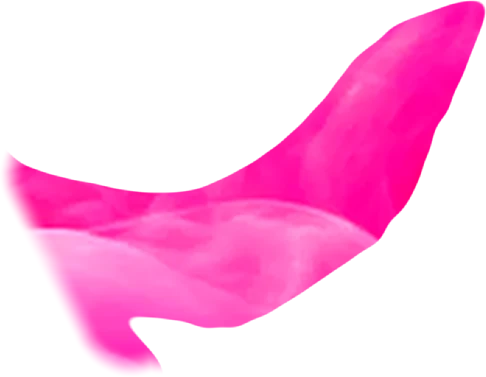
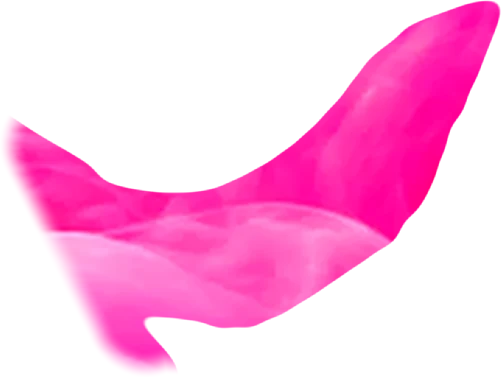
feat(dog): glass bubble helmet, volume and cleaner outline
- Glass overlay (vector): the dog's head inside the bubble as a darker smoke
  tone (face, drop ears, nose, eyes), sheen, thin bright rim and curved
  speculars.
- Per-part volume layer (soft inner shade + rim light, half-res WebP).
- Both are faded by --dog-detail, so the full-screen cover at the start of B
  stays plain smoke.
- The tank is a clean capsule, the back line is one smooth slope, the
  helmet-to-tank fillet is smooth, and the far hind leg is redrawn as a clean
  leg and paw.

Claude-Session: https://claude.ai/code/session_01AsJodUJ76uuwtQo2Mwdagu

diff --git a/docs/journey/tools/dog_silhouette.py b/docs/journey/tools/dog_silhouette.py
@@ -33,6 +33,14 @@ EDGE = 2.0       # width (box px) of the anti-aliased silhouette edge
 SDF_SIGMA = 3.2  # source px: smoothing of the signed distance (removes segmentation jaggies)
 FAR_SHADE = 0.8  # far legs a touch darker for depth
 WEBP_Q = 88
+SHADE_Q = 80
+SHADE_SCALE = 0.5
+# volume (a separate per-part layer, faded by --dog-detail): light from the upper left
+LIGHT = (-0.6, -0.8)       # direction the light comes FROM (screen axes)
+SHADE_W = 70               # box px: inner shade width
+SHADE_MAX = 0.34           # inner shade opacity at the edge, on the side away from the light
+RIM_W = 7                  # box px: rim light width
+RIM_MAX = 0.5              # rim light opacity on the side facing the light
 BUDGET = 300_000
 
 # ---------------------------------------------------------------------------------------------------------------
@@ -45,14 +53,44 @@ GC_OUTER = [(240, 140), (490, 140), (510, 280), (640, 300), (680, 330), (700, 40
             (250, 660), (205, 650), (210, 600), (270, 520), (300, 430), (250, 380), (240, 260)]
 GC_CORE = [(320, 420), (560, 400), (700, 470), (760, 600), (700, 620), (560, 540), (420, 560), (330, 520)]
 HELMET_GUESS = (367, 262, 118)
+
+
+def capsule(a, b, r, n=24):
+    """polygon of a capsule (stadium) from a to b with radius r"""
+    a, b = np.array(a, float), np.array(b, float)
+    ang = math.atan2(*(b - a)[::-1])
+    pts = [b + r * np.array([math.cos(ang + t), math.sin(ang + t)]) for t in np.linspace(-math.pi / 2, math.pi / 2, n)]
+    pts += [a + r * np.array([math.cos(ang + t), math.sin(ang + t)]) for t in np.linspace(math.pi / 2, 3 * math.pi / 2, n)]
+    return [tuple(p) for p in pts]
+
+
+# the back tank: a deliberate rounded cylinder (the photo's tank top is lumpy with caps, labels and hose rings)
+TANK = capsule((548, 336), (646, 376), 24)
+# the back line from under the tank end to the tail root, as one smooth slope (no hose connector bump)
+BACK = [(664, 396), (690, 406), (715, 420), (740, 437), (762, 450)]
+# the head inside the bubble (source px, traced from dog.png): face + ears + muzzle, the two drop ears, nose, eyes
+HEAD = [(300, 224), (320, 212), (345, 204), (372, 201), (402, 204), (428, 212), (448, 222), (462, 234), (466, 252),
+        (464, 272), (458, 290), (447, 304), (432, 318), (420, 333), (412, 350), (406, 364), (360, 372), (334, 366),
+        (326, 350), (316, 340), (306, 330), (301, 316), (294, 320), (286, 312), (280, 292), (278, 268), (284, 244)]
+EARS = [[(305, 220), (313, 237), (313, 263), (310, 287), (302, 310), (293, 319), (287, 310), (280, 290), (278, 263),
+         (288, 237)],
+        [(427, 215), (448, 222), (463, 233), (467, 263), (460, 290), (447, 303), (440, 296), (438, 270), (431, 240)]]
+NOSE = [(307, 285), (316, 279), (332, 279), (345, 285), (346, 294), (338, 301), (327, 304), (316, 300), (308, 293)]
+EYES = [(320, 248), (390, 248)]
 # added (dark fur / cuffs the segmentation misses against the stars and Earth)
 ADD = [
+    TANK,
+    # under the back line (whatever the erase below took off the suit)
+    BACK + [(762, 470), (700, 470), (640, 440), (600, 380)],
+    # far hind leg below its cuff: a clean leg and paw (the photo's is thin and ragged against Earth)
+    [(706, 688), (746, 672), (747, 700), (747, 738), (748, 760), (748, 777), (745, 789), (738, 797), (727, 800),
+     (718, 797), (713, 789), (712, 776), (714, 760), (717, 744), (719, 728), (719, 712), (716, 699), (708, 693)],
     # near hind leg below the trouser cuff, down to the paw
     [(806, 664), (820, 652), (836, 632), (844, 642), (850, 647), (856, 658), (868, 680), (880, 704), (890, 726),
      (897, 744), (899, 758), (896, 770), (890, 776), (882, 779), (874, 774), (866, 760), (860, 740), (854, 720),
      (846, 704), (836, 690), (824, 677), (812, 674)],
     # fillet from the helmet bubble to the tank where the hose loop was (no hose stub)
-    [(462, 350), (474, 322), (486, 330), (500, 334), (514, 333), (526, 331), (526, 352)],
+    [(470, 340), (478, 300), (486, 314), (498, 321), (512, 321), (528, 316), (545, 312), (560, 330), (540, 350)],
     # the Earth highlight between the far hind cuff and the near hind trouser: closed, so the far leg's front edge
     # runs straight up into the near trouser (a keyhole notch there reads as a glitch)
     [(724, 652), (744, 634), (752, 640), (747, 676), (724, 676)],
@@ -70,6 +108,12 @@ ERASE = [
     # tether: everything below the belly line between the near front leg and the far hind thigh
     [(503, 590), (530, 581), (558, 572), (584, 575), (598, 581), (606, 594), (611, 616), (617, 640), (640, 700),
      (640, 1030), (300, 1030), (445, 700), (447, 650), (456, 626), (470, 606), (488, 594)],
+    # everything above the tank + back line (the tank and the slope are re-added as clean shapes)
+    [(552, 240), (790, 240), (790, 452)] + BACK[::-1] + [(560, 350)],
+    # the far hind leg below the cuff (redrawn above)
+    [(700, 694), (712, 688), (760, 688), (760, 820), (700, 820)],
+    # above that fillet: the tank cap and the hose loop's root
+    [(482, 262), (552, 262), (552, 311), (545, 310), (528, 314), (512, 319), (498, 319), (486, 312), (480, 300)],
     # hose loop above the shoulders (the helmet ellipse is re-added afterwards)
     [(478, 268), (540, 268), (536, 300), (527, 322), (515, 330), (500, 330), (488, 320)],
 ]
@@ -247,6 +291,15 @@ def build():
         touch[i] = {int(j) for j in np.unique(own[dil]) if j >= 0 and j != i}
 
     rim = ndi.distance_transform_edt(alpha > 0.5)     # box px from the outline, inwards
+    # volume layer: soft inner shade (stronger away from the light) + thin rim light on the lit edges
+    g = cv2.GaussianBlur(dist, (0, 0), 10)
+    gy, gx = np.gradient(g)
+    nn = np.hypot(gx, gy) + 1e-6
+    facing = (-gx / nn) * LIGHT[0] + (-gy / nn) * LIGHT[1]          # outward normal . towards-light
+    sh = SHADE_MAX * (1 - smoothstep(0, SHADE_W, rim)) ** 1.6 * (0.35 + 0.65 * (1 - facing) / 2)
+    rl = RIM_MAX * (1 - smoothstep(1.0, RIM_W, rim)) * np.clip(facing, 0, 1) ** 1.4
+    vol_a = rl + sh * (1 - rl)
+    vol_rgb = (np.array([255, 236, 250], np.float32) * (rl / np.maximum(vol_a, 1e-6))[..., None])
     smoke, corners = render_smoke(W, H)
     out = []
     for i, (name, par, z, cut, piv, seeds) in enumerate(PARTS):
@@ -273,14 +326,60 @@ def build():
             din = ndi.distance_transform_edt(own == i)[by0:by1, bx0:bx1]
             col = col * (1 - (1 - FAR_SHADE) * smoothstep(0, 70, din))[..., None]
         rgba = np.dstack([col * 255, a[by0:by1, bx0:bx1] * 255])
+        shade = np.dstack([vol_rgb[by0:by1, bx0:bx1], (vol_a * a)[by0:by1, bx0:bx1] * 255])
         ideal = np.dstack([np.zeros((by1 - by0, bx1 - bx0, 3)), (alpha * mine)[by0:by1, bx0:bx1] * 255])
         pv = P(piv) if piv else (float(np.mean(np.nonzero(mine)[1])), float(np.mean(np.nonzero(mine)[0])))
         out.append(dict(name=name, parent=par, z=z, file=f'dog-{name}.webp', box=[bx0, by0, bx1, by1],
                         pivot=[round(pv[0], 2), round(pv[1], 2)],
                         rgba=np.clip(np.round(rgba), 0, 255).astype(np.uint8),
+                        shade_rgba=np.clip(np.round(shade), 0, 255).astype(np.uint8), shade_file=f'dog-{name}-shade.webp',
                         ideal=np.clip(np.round(ideal), 0, 255).astype(np.uint8)))
     cuts = [[P(c) for c in cut] for (_, _, _, cut, _, _) in PARTS if cut]
-    return dict(W=W, H=H, alpha=alpha, own=own, parts=out, cuts=cuts, ell=ell, mask=m, smoke=smoke, corners=corners, P=P)
+    Pb = lambda p: (S * p[0] + t[0] + 0.5 * S - 0.5, S * p[1] + t[1] + 0.5 * S - 0.5)   # source px centre -> box px
+    return dict(W=W, H=H, alpha=alpha, own=own, parts=out, cuts=cuts, ell=ell, mask=m, smoke=smoke, corners=corners, P=P,
+                Pb=Pb, helmet=helmet_geometry(ell, Pb, W, H))
+
+
+def smooth_path(mask, sigma, eps=0.8):
+    d = np.where(mask, ndi.distance_transform_edt(mask), -ndi.distance_transform_edt(~mask)).astype(np.float32)
+    return contour_path(cv2.GaussianBlur(d, (0, 0), sigma) > 0, eps)
+
+
+def helmet_geometry(ell, Pb, W, H):
+    """the glass bubble overlay (box px): ellipse, the head inside it, and the glass highlights"""
+    (ex, ey), (ea, eb), et = ell[:3]
+    cx, cy = Pb((ex, ey)); rx, ry = ea * S / 2, eb * S / 2
+    inner = np.zeros((H, W), np.uint8)
+    cv2.ellipse(inner, ((cx, cy), (2 * rx - 36, 2 * ry - 36), et), 1, -1)
+    inner = inner.astype(bool)
+
+    def chaikin(pts, n=4):        # hand-traced polygons -> smooth closed curves
+        pts = np.array(pts, float)
+        for _ in range(n):
+            q = np.roll(pts, -1, 0)
+            pts = np.stack([0.75 * pts + 0.25 * q, 0.25 * pts + 0.75 * q], 1).reshape(-1, 2)
+        return pts
+
+    def fill(poly):
+        m = np.zeros((H, W), np.uint8)
+        cv2.fillPoly(m, [np.round(np.array([Pb(p) for p in chaikin(poly)]) * 4).astype(np.int32)], 1, shift=2)
+        return m.astype(bool)
+    head = fill(HEAD) & inner
+    ears = (fill(EARS[0]) | fill(EARS[1])) & head
+    nose = fill(NOSE)
+    th = math.radians(et)
+
+    def on(a, k=1.0):     # point on the ellipse (scaled by k) at screen angle a (deg)
+        u, v = k * rx * math.cos(math.radians(a)), k * ry * math.sin(math.radians(a))
+        return cx + u * math.cos(th) - v * math.sin(th), cy + u * math.sin(th) + v * math.cos(th)
+
+    def arc(a0, a1, k, n=24):
+        pts = [on(a, k) for a in np.linspace(a0, a1, n)]
+        return 'M' + ' '.join(f'{x:.1f} {y:.1f}' for x, y in pts)
+    return dict(cx=round(cx, 1), cy=round(cy, 1), rx=round(rx, 1), ry=round(ry, 1), angle=round(et, 2),
+                head=smooth_path(head, 5), ears=smooth_path(ears, 4), nose=smooth_path(nose, 4),
+                eyes=[[round(v, 1) for v in Pb(e)] for e in EYES],
+                spec=[arc(196, 248, 0.84), arc(256, 268, 0.84), arc(18, 52, 0.86)])
 
 
 # ------------------------------------------------------------------ helpers shared by asserts / sheets
@@ -298,20 +397,21 @@ def paint_order(parts):
         sorted([p for p in kids if p['z'] >= root['z']], key=lambda p: p['z'])
 
 
-def assemble(fig, view, size, angles=None, bg=None, key='img'):
+def assemble(fig, view, size, angles=None, bg=None, key='img', shade=False):
     """premultiplied RGBA float canvas; view: 3x3 box px -> canvas px; angles: {part: deg}"""
     angles = angles or {}
     acc = np.zeros((size[1], size[0], 4), np.float32)
     if bg is not None:
         acc[..., :3] = np.array(bg, np.float32) / 255; acc[..., 3] = 1
     for p in paint_order(fig['parts']):
-        im = p[key].astype(np.float32) / 255
-        im[..., :3] *= im[..., 3:]
         bx0, by0 = p['box'][:2]
         G = rot_about(p['pivot'], angles.get(p['name'], 0.0))
         M = (view @ G @ np.array([[1, 0, bx0], [0, 1, by0], [0, 0, 1]]))[:2]
-        w = cv2.warpAffine(im, M, size, flags=cv2.INTER_LINEAR, borderMode=cv2.BORDER_CONSTANT, borderValue=0)
-        acc = w + acc * (1 - w[..., 3:])
+        for k in ([key, 'shade'] if shade else [key]):
+            im = p[k].astype(np.float32) / 255
+            im[..., :3] *= im[..., 3:]
+            w = cv2.warpAffine(im, M, size, flags=cv2.INTER_LINEAR, borderMode=cv2.BORDER_CONSTANT, borderValue=0)
+            acc = w + acc * (1 - w[..., 3:])
     return acc
 
 
@@ -353,7 +453,7 @@ def main(shots=None):
     fig = build()
     W, H = fig['W'], fig['H']
     for f in sorted(ASSET.glob('dog-*.webp')):
-        if f.name not in {p['file'] for p in fig['parts']}:
+        if f.name not in {p['file'] for p in fig['parts']} | {p['shade_file'] for p in fig['parts']}:
             f.unlink()
     total = 0
     for p in fig['parts']:
@@ -362,6 +462,14 @@ def main(shots=None):
         (ASSET / p['file']).write_bytes(buf.getvalue())
         p['bytes'] = len(buf.getvalue()); total += p['bytes']
         p['img'] = np.array(Image.open(ASSET / p['file']).convert('RGBA'))   # asserts run on the shipped pixels
+        buf = io.BytesIO()
+        sh_im = Image.fromarray(p['shade_rgba'], 'RGBA')   # soft layer: shipped at half resolution (CSS stretches it)
+        sh_im = sh_im.resize((max(1, round(sh_im.width * SHADE_SCALE)), max(1, round(sh_im.height * SHADE_SCALE))), Image.LANCZOS)
+        sh_im.save(buf, 'WEBP', quality=SHADE_Q, method=6, alpha_quality=80)
+        (ASSET / p['shade_file']).write_bytes(buf.getvalue())
+        p['shade_bytes'] = len(buf.getvalue()); total += p['shade_bytes']
+        sh_back = Image.open(ASSET / p['shade_file']).convert('RGBA').resize(p['shade_rgba'].shape[1::-1], Image.BILINEAR)
+        p['shade'] = np.array(sh_back)
     by = {p['name']: p for p in fig['parts']}
     body = by['body']
     for p in fig['parts']:
@@ -393,8 +501,8 @@ def main(shots=None):
     path = contour_path(stable)
     meta = dict(
         viewBox=[0, 0, W, H], body=[round(cx / W * 100, 2), round(cy / H * 100, 2)], silhouette=path,
-        source='dog.png', scale=S, window=list(win),
-        parts=[{k: p[k] for k in ('name', 'parent', 'z', 'file', 'box', 'pivot', 'css')} for p in fig['parts']],
+        source='dog.png', scale=S, window=list(win), helmet=fig['helmet'],
+        parts=[{k: p[k] for k in ('name', 'parent', 'z', 'file', 'shade_file', 'box', 'pivot', 'css')} for p in fig['parts']],
     )
     (COMP / 'dog.json').write_text(json.dumps(meta, indent=1) + '\n')
 
@@ -451,7 +559,7 @@ def main(shots=None):
     print('parts', {p['name']: (p['box'][2] - p['box'][0], p['box'][3] - p['box'][1], p['bytes']) for p in fig['parts']})
     print(f'body window {meta["window"]}  body {meta["body"]}  viewBox {meta["viewBox"]}  path {len(meta["silhouette"])} chars, '
           f'{meta["silhouette"].count("M")} rings, IoU {iou:.4f}')
-    print(f'part bytes {total}  worst joint hole px^2 {worst}')
+    print(f'part bytes {total} (smoke {sum(p["bytes"] for p in fig["parts"])}, volume {sum(p["shade_bytes"] for p in fig["parts"])})  worst joint hole px^2 {worst}')
     print('OK dog')
 
 
@@ -481,21 +589,21 @@ def contact_sheets(fig, out, win, stable):
     pad = int(0.08 * max(W, H))
     size = (W + 2 * pad, H + 2 * pad)
     view = np.array([[1, 0, pad], [0, 1, pad], [0, 0, 1]], float)
-    rest = flat(assemble(fig, view, size, bg=BG))
+    rest = flat(assemble(fig, view, size, bg=BG, shade=True))
     Image.fromarray(rest).save(out / 'rest-full.png')
     poses = []
     for a in (8, -8):
         ang = {n: (a * 1.5 if n == 'tail' else a) for n in names}
-        poses.append(label(fit(flat(assemble(fig, view, size, ang, bg=BG)), 900), f'legs {a:+d}, tail {a * 1.5:+.0f} deg'))
+        poses.append(label(fit(flat(assemble(fig, view, size, ang, bg=BG, shade=True)), 900), f'legs {a:+d}, tail {a * 1.5:+.0f} deg'))
     alt = {n: (8 if ('front' in n or n == 'tail') else -8) for n in names}
-    poses.append(label(fit(flat(assemble(fig, view, size, alt, bg=BG)), 900), 'front/tail +8, hind -8'))
+    poses.append(label(fit(flat(assemble(fig, view, size, alt, bg=BG, shade=True)), 900), 'front/tail +8, hind -8'))
     r900 = label(fit(rest, 900), 'rest 900 px')
     r260 = fit(rest, 260)
     tile = np.zeros_like(r900); tile[:] = BG
     tile[80:80 + r260.shape[0], 40:40 + 260] = r260
     cv2.putText(tile, 'rest 260 px', (40, 40), cv2.FONT_HERSHEY_SIMPLEX, 1.1, (200, 200, 220), 2)
     # 4x edge zooms: helmet top, front paw, tail tip, hind paw
-    restb = flat(assemble(fig, np.eye(3), (W, H), bg=BG))
+    restb = flat(assemble(fig, np.eye(3), (W, H), bg=BG, shade=True))
     P = fig['P']
     zooms = []
     for (sx, sy) in [(330, 150), (225, 650), (895, 395), (890, 776)]:

diff --git a/docs/journey/ASSETS.md b/docs/journey/ASSETS.md
@@ -83,34 +83,44 @@ the viewport, and the smoke texture.
 - Generator: `docs/journey/tools/smoke.py`.
 
 ## `<Dog class? idle? />`: `src/components/space/Dog.astro`
-- A crisp **silhouette** of the client's labrador in a bubble helmet with a back tank (`docs/journey/source/dog.png`),
-  **facing left**, filled with pink / magenta / violet / blue smoke from `docs/journey/source/smoke.png`. No suit
-  detail, no hose or tether, no rim light (the clean edge reads best at every size). Same look as the astronauts.
-- Root `div.rb-dog[data-dog]`, `width: 100%`, intrinsic aspect ratio **1997 : 1885** (`dog.json.viewBox`
-  `[0, 0, 1997, 1885]`, box px). `--body-x`, `--body-y` are set on the root.
-- Six WebP parts (`src/assets/space/dog-*.webp`, **150 KB** total), nested like `<Astronaut/>`
-  (`div.rb-dog__part[data-dog-part]`, `left/top/width/height` in % of the parent box, `transform-origin` = joint):
-  `body` (torso + helmet + tank) with children `leg-front-far` (z 0, under), `tail` and `leg-hind-far` (z 1, under),
-  `leg-front-near` (z 3, over), `leg-hind-near` (z 4, over). Far legs are a touch darker for depth.
-  Each limb reaches 28 px (box) fully opaque under its neighbours, then tapers, so no seam opens up to ±8°; the smoke
-  is sampled once in rest-pose box coordinates, so the texture is continuous across the joints at rest.
+- A crisp **silhouette** of the client's labrador in a glass bubble helmet with a back tank
+  (`docs/journey/source/dog.png`), **facing left**, filled with pink / magenta / violet / blue smoke from
+  `docs/journey/source/smoke.png`. No suit detail, no hose or tether. Same look as the astronauts.
+- Root `div.rb-dog[data-dog]`, `width: 100%`, intrinsic aspect ratio **1997 : 1891** (`dog.json.viewBox`
+  `[0, 0, 1997, 1891]`, box px). `--body-x`, `--body-y` are set on the root.
+- Six parts nested like `<Astronaut/>` (`div.rb-dog__part[data-dog-part]`, `left/top/width/height` in % of the
+  parent box, `transform-origin` = joint): `body` (torso + helmet + tank) with children `leg-front-far` (z 0, under),
+  `tail` and `leg-hind-far` (z 1, under), `leg-front-near` (z 3, over), `leg-hind-near` (z 4, over). Far legs are a
+  touch darker for depth. Each limb reaches 28 px (box) fully opaque under its neighbours, then tapers, so no seam
+  opens up to ±8°; the smoke is sampled once in rest-pose box coordinates, so the texture is continuous at rest.
+- Each part has two images: the smoke (`dog-<part>.webp`) and a **volume layer** (`dog-<part>-shade.webp`,
+  `img.rb-dog__vol`, half resolution): a soft inner shade along the edges (stronger away from the light, upper
+  left) and a thin rim light on the lit edges.
+- **Glass overlay** `svg.rb-dog__glass` (vector, scales cleanly; geometry in `dog.json.helmet`): the dog's head
+  inside the bubble as a darker smoke tone (face with drop ears, nose, eyes; traced from dog.png), a glass sheen, a
+  bright thin rim with a faint inner ring, and three curved speculars. Gradient ids are unique per instance.
+- **`--dog-detail`** (default 1) is the opacity of the volume layer and the glass overlay. journey.ts already
+  drives it: 0 while the dog covers the screen (the helmet sits next to the 16:10 body window), fading in from
+  B 0.97 s. The frozen frame in the phone leaves it at 1.
 - **Idle** (`dog.ts`, `initDogs(scope = document)`, called by the component): every leg turns ±3.6° max, the tail
   ±6°, each as two summed sines with incommensurate periods (4–9 s) and a random phase. Paused off-screen
   (IntersectionObserver), never runs under `prefers-reduced-motion`, and not at all with `idle={false}`
   (`data-dog-idle="false"`): the dog in the phone (`SpaceArt.astro`) is a frozen frame at the rest pose.
-- Geometry: `dog.json`. Generator: `docs/journey/tools/dog_silhouette.py` (GrabCut + hand polygons, fitted helmet
-  ellipse, SDF-smoothed ~2 px anti-aliased edge; asserts at the end; `--shots DIR` writes the contact sheets).
-  - `body` = **36.05%, 42.92%**: the centre of the largest 16:10 rectangle (768 × 480 box px) that is 100% opaque in
+- Generator: `docs/journey/tools/dog_silhouette.py` (GrabCut + hand-tuned shapes: fitted helmet ellipse, a capsule
+  tank and one smooth back line, a redrawn far hind leg, paw undersides; SDF-smoothed ~2 px anti-aliased edge;
+  asserts at the end; `--shots DIR` writes the contact sheets). Weight: **210,586 bytes** (smoke 151,896 + volume
+  58,690), 12 files.
+  - `body` = **36.43%, 42.54%**: the centre of the largest 16:10 rectangle (783 × 489 box px) that is 100% opaque in
     the `body` part alone (asserted on the decoded WebP).
   - `silhouette` = one closed SVG path (box px) of the **stable** outline: the area covered in every idle pose
     (limbs at their idle extremes), so a cover computed from it (journey.ts `dogCoverWidth`, isPointInFill) holds
     while the legs move. It is a little inside the rest outline at the limbs; don't use it as a visual mask.
-- **Cover sizes**, centred on `body`: a 16:10 viewport is covered from ≈ **2.65 × viewport width** (3819 px for
-  1440×900 incl. journey.ts's 3% margin); a 390×844 portrait viewport needs ≈ **8.6 × viewport width** (3351 px).
-  The parts are 1997 px wide in total, so at the cover size the smoke is upscaled ~2×: it is soft smoke, that is fine.
+- **Cover sizes**, centred on `body`: a 16:10 viewport is covered from ≈ **2.6 × viewport width** (3747 px for
+  1440×900 incl. journey.ts's 3% margin); a 390×844 portrait viewport needs ≈ **7.9 × viewport width** (3073 px).
+  The parts are 1997 px wide, so at the cover size the smoke is upscaled ~2×: soft smoke, that is fine.
 - Verified (`docs/journey/shots/dog/`, gitignored): contact sheet at 260 / 900 px, legs ±8°, 4× edges; browser at
-  100–900 px; `/?journey=debug` transition B at 1440×900 and 390×844: smoke covers the screen at B 0.44 s and the
-  stage dog lands on the phone's dog rect to 0.1 px.
+  100–900 px incl. the glass at 4×; `/?journey=debug` transition B at 1440×900 and 390×844: smoke covers the
+  screen at B 0.44 s and the stage dog lands on the phone's dog rect to 0.1 px.
 
 ## `<SpaceBackdrop moon? moonPhoto? class? />`: `src/components/space/SpaceBackdrop.astro`
 - Root `div.rb-space[data-space]`, `position:absolute; inset:0` (fills its positioned parent),
@@ -146,7 +156,7 @@ the viewport, and the smoke texture.
 | smoke-pink.webp | 21,670 |
 | **total** | **456,812 (~446 KiB)** |
 
-The dog parts `dog-*.webp` add 150,460 bytes (six files). The star tiles are inline in the HTML; the dog's
+The dog parts `dog-*.webp` add 210,586 bytes (twelve files). The star tiles are inline in the HTML; the dog's
 `silhouette` path (~17 KB) ships in the journey script, which imports `dog.json`. `source-figures.webp` is not
 loaded at runtime.
 
